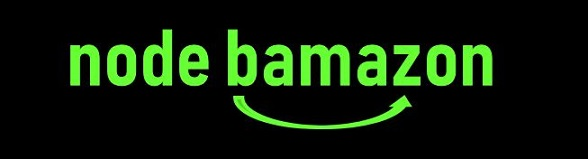
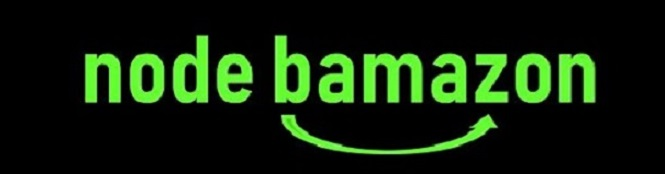
updated bamazon image

Changed region(s): [[0.0918, 0.1761, 0.9184, 0.9057]]

diff --git a/index.html b/index.html
@@ -129,7 +129,7 @@
       <div class="row pb-2 mb-3" id="project-section">
         <div class="col-xs-12 col-md-6 mb-3 project-outline text-center">
           <h4><strong>Project: 'Bamazon' Marketplace (Node)</strong></h4>
-          <a href="https://github.com/ethantatum/Command-Line-MySQL" target="_blank"><img class="project-image img-fluid" src="assets/images/bamazon_title.JPG" alt="bamazon logo"></a>
+          <a href="https://github.com/ethantatum/Command-Line-MySQL" target="_blank"><img class="project-image img-fluid" src="assets/images/bamazon2.JPG" alt="bamazon logo"></a>
           The 'Bamazon' Marketplace combines JavaScript run in Node.js and a MySQL database, and allows users to search, purchase, and adjust inventory in a mock marketplace. This program runs entirely in the command line, and takes user inputs to log different MySQL data to the terminal.<br>
           <a class="project-link" href="https://github.com/ethantatum/Command-Line-MySQL" target="_blank"><strong>Click here (or the image) to check out the repo on GitHub!!</strong></a><br> 
         </div>
